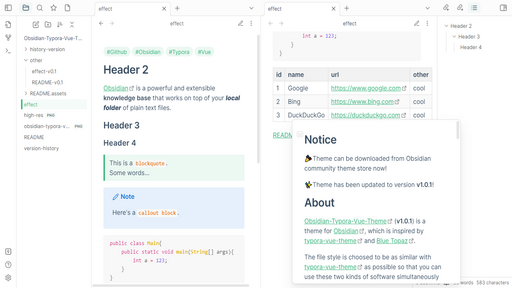
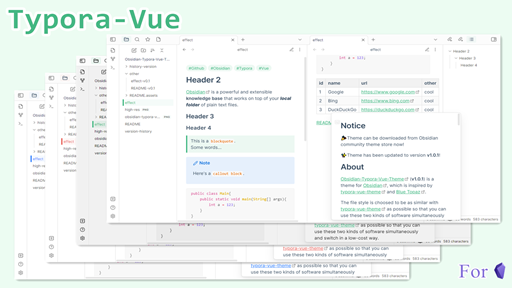
update screenshot 2023-01-24 15:06:09

diff --git a/README.md b/README.md
@@ -1,3 +1,5 @@
+![obsidian-typora-vue-high-res](./obsidian-typora-vue-high-res.png)
+
 [![theme](https://img.shields.io/badge/theme-Obsidian-blueviolet.svg?color=blueviolet)](https://obsidian.md/) [![GitHub issues](https://img.shields.io/github/issues/ZekunC/Obsidian-Typora-Vue-Theme.svg?color=orange)](https://github.com/ZekunC/Obsidian-Typora-Vue-Theme/issues) [![GitHub issues](https://img.shields.io/github/issues-closed/ZekunC/Obsidian-Typora-Vue-Theme.svg?color=brightgreen)](https://github.com/ZekunC/Obsidian-Typora-Vue-Theme/issues?q=is%3Aissue+is%3Aclosed) [![GitHub forks](https://img.shields.io/github/forks/ZekunC/Obsidian-Typora-Vue-Theme.svg?color=green)](https://github.com/ZekunC/Obsidian-Typora-Vue-Theme/network/members) [![GitHub stars](https://img.shields.io/github/stars/ZekunC/Obsidian-Typora-Vue-Theme.svg)](https://github.com/ZekunC/Obsidian-Typora-Vue-Theme/stargazers)
 
 ## Notice
